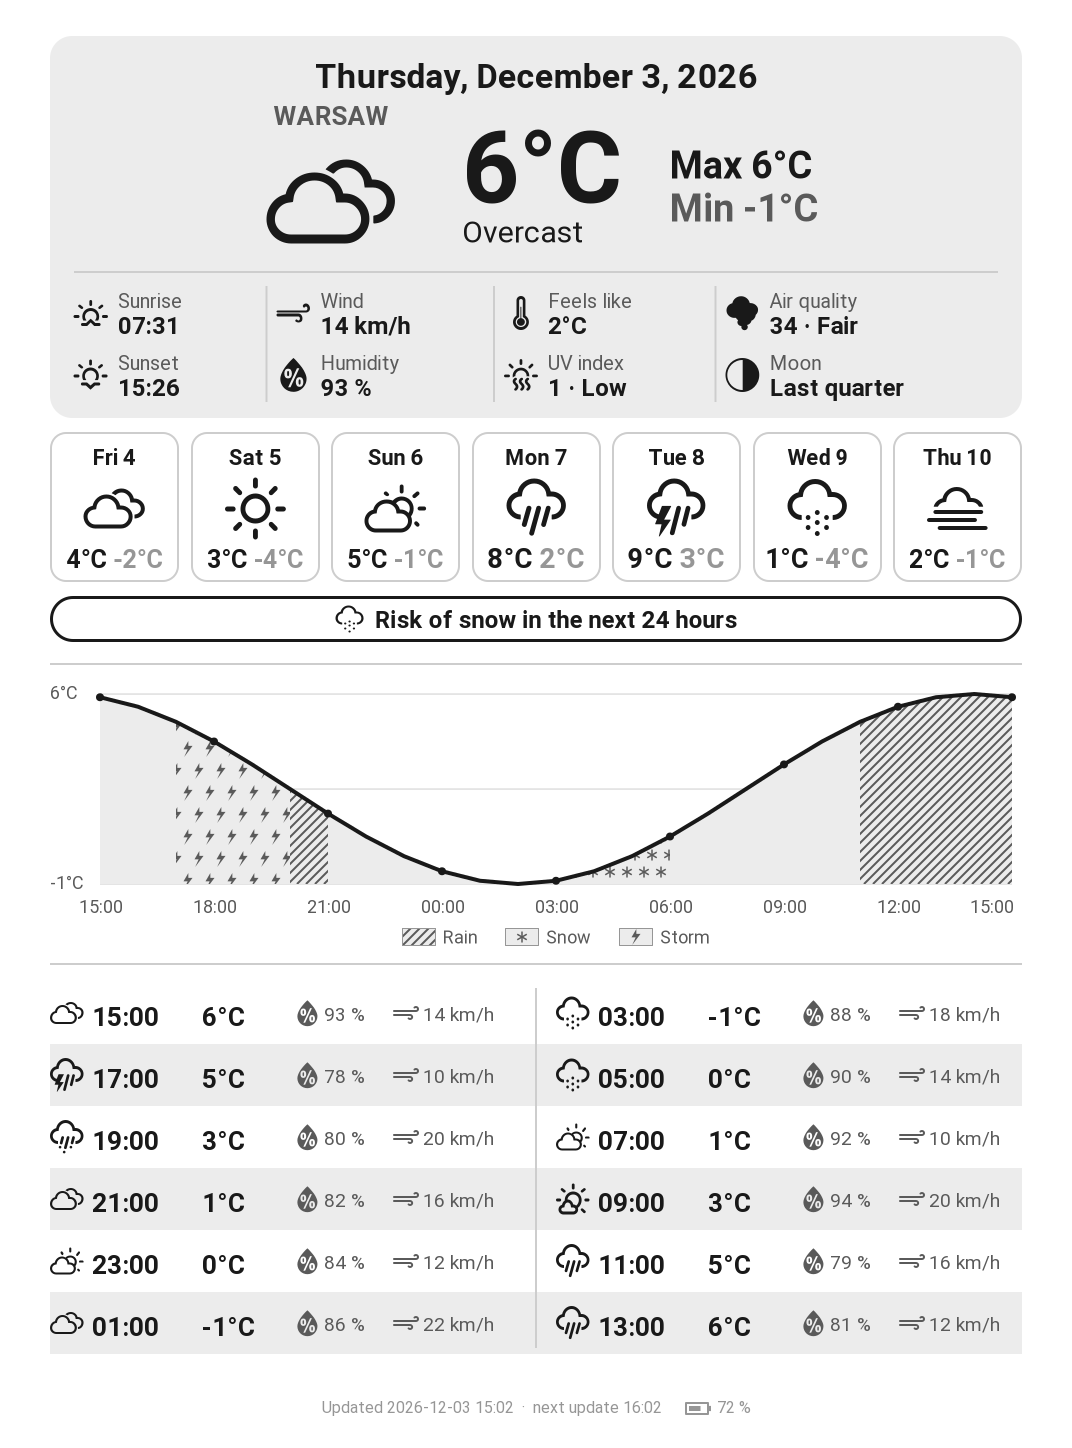
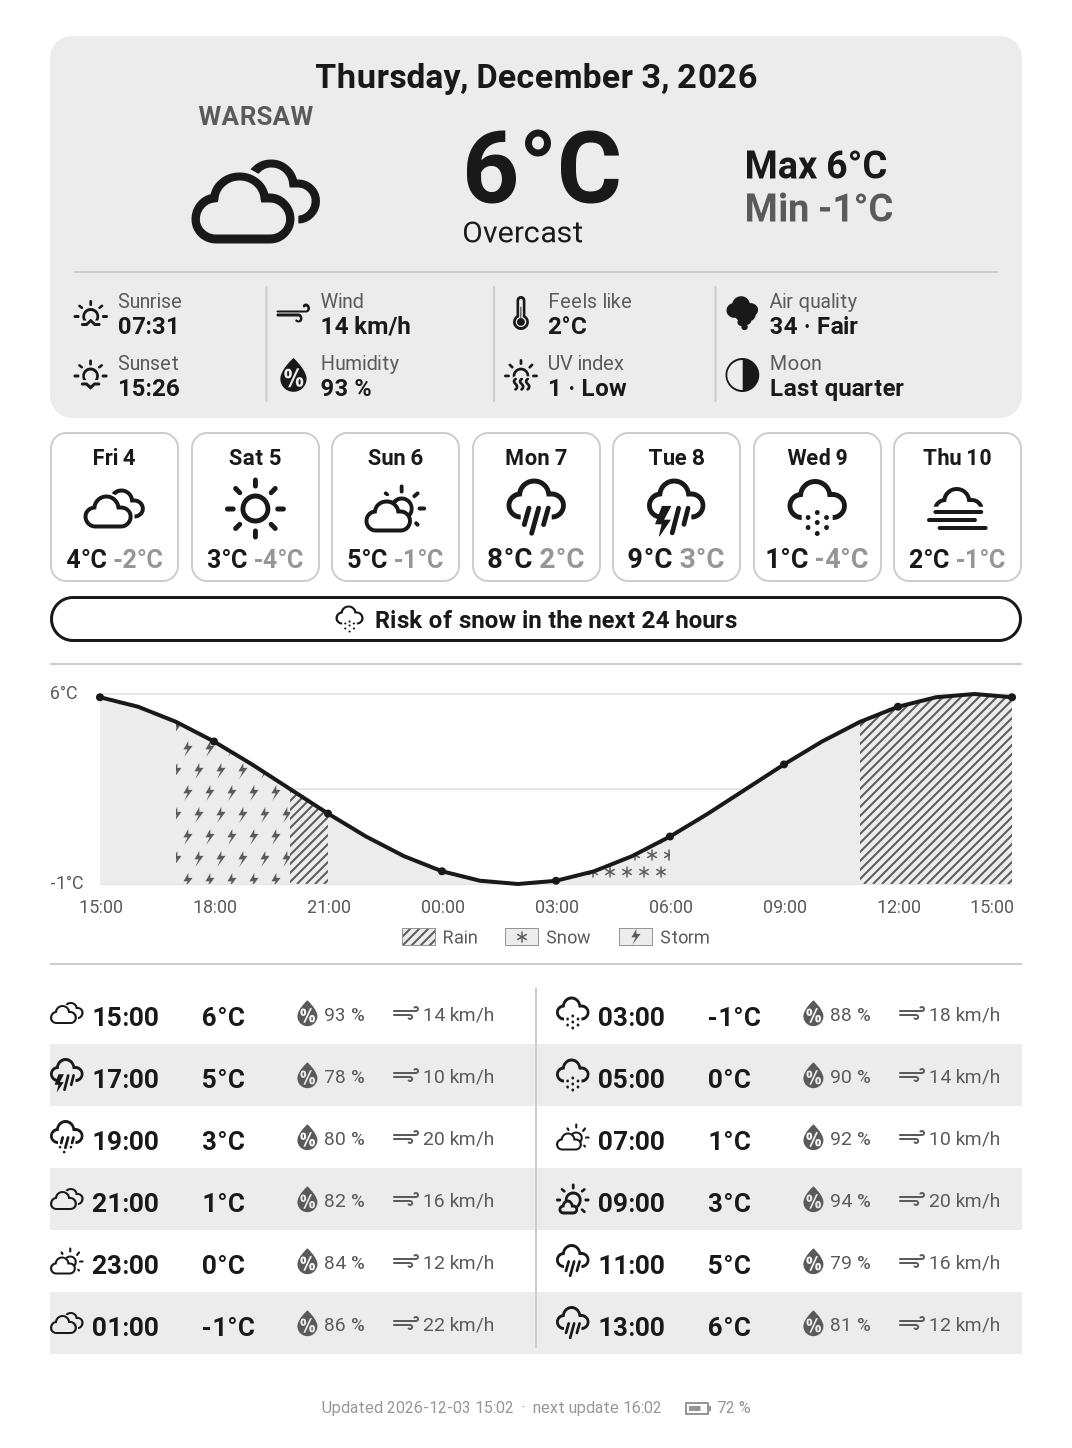
Spread the current weather halfway between centered and the card's edges
Claude-Session: https://claude.ai/code/session_01ArRJHWoxrTZihEERid19vz

Changed region(s): [[0.1847, 0.0622, 0.3694, 0.1865], [0.6157, 0.0932, 0.8312, 0.1554]]

diff --git a/kindleweather/lib/kindle_weather/render.py b/kindleweather/lib/kindle_weather/render.py
@@ -309,25 +309,27 @@ class _Dashboard:
         center_y = (main_top + main_bottom) / 2
 
         # The weather icon under the city, the temperature and description,
-        # then the day's max and min: one group, centered in the card.
+        # then the day's max and min: one group, centered in the card, spread
+        # halfway between packed together and pushed to the edges.
         place = forecast.place_name.upper()
         place_box = draw.textbbox((0, 0), place, font=fonts["location"])
         icon_column = max(150, place_box[2] - place_box[0])
         max_text = f"Max {self._temperature(forecast.today.temperature_max)}"
         min_text = f"Min {self._temperature(forecast.today.temperature_min)}"
         min_max_width = max(text_width(draw, t, fonts["min_max"]) for t in (max_text, min_text))
-        gap = 56
         # The temperature and description shrink if needed, such as for
         # "-12°C" or a long description.
         temperature = self._temperature(forecast.current.temperature)
         description = self.locale.describe(forecast.current.weather_code)
-        space = right - left - icon_column - min_max_width - 2 * gap
+        space = right - left - icon_column - min_max_width - 2 * 56
         temperature_font = _shrink_to_fit(draw, temperature, fonts["temperature"], space)
         description_font = _shrink_to_fit(draw, description, fonts["description"], space)
         block_width = max(
             text_width(draw, temperature, temperature_font),
             text_width(draw, description, description_font),
         )
+        edge_gap = (right - left - icon_column - block_width - min_max_width) / 2
+        gap = max(56, edge_gap * 0.55)
         group_width = icon_column + gap + block_width + gap + min_max_width
         icon_left = max(left, (left + right - group_width) / 2)
 
